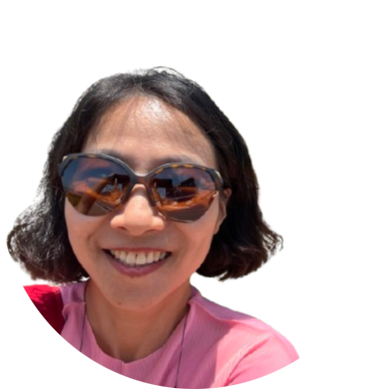
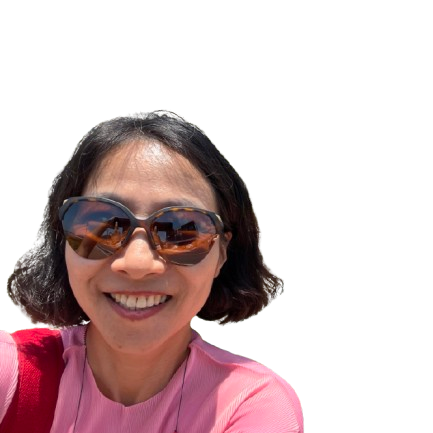
CSS-Home

diff --git a/css/style.css b/css/style.css
@@ -98,3 +98,49 @@ button:focus, button:hover {
     border: 1px solid var(--color-accent);
     border-radius: 4px;
 }
+
+/* Home */
+#home {
+    background-color: var(--color-primary);
+    color: var(--color-text);
+    padding: 5rem 1rem;
+    padding-top: 7rem;
+    text-align: center;
+}
+
+.home__avatar {
+    width: 250px;
+    height: 250px;
+    object-fit: cover;  /* 이미지 비율 고정 */
+    border-radius: 100%;
+    border: 3px solid var(--color-accent);
+}
+
+.home__title {
+    font-size: 3rem;
+    margin-bottom:1rem;
+}
+
+.home__title--strong {
+    color: var(--color-accent);
+}
+
+.home__description {
+    font-size: 1.3rem;
+}
+
+.home__contact {
+    display: inline-block;
+    background-color: var(--color-accent);
+    color: var(--color-black);
+    margin: 2rem;
+    padding: 0.5rem 1rem;
+    font-weight: bold;
+    border-radius: 4px;
+}
+
+.home__contact:hover {
+    background-color: transparent;
+    color: var(--color-accent);
+    outline: 2px solid var(--color-accent);
+}

diff --git a/index.html b/index.html
@@ -47,10 +47,10 @@
     <main>
         <!-- Home -->
         <section id="home">
-            <img src="images/profile.png" alt="Young's propfile" />
-            <h2>Hello I&#39;m Dream Coder, Young</h2>
-            <p>A software engineer currently residing in Cary, NC</p>
-            <a href="#contact">Contact</a>
+            <img class="home__avatar" src="images/profile.png" alt="Young's propfile" />
+            <h2 class="home__title">Hello<br />I&#39;m <strong class="home__title--strong">Dream Coder</strong>, Young</h2>
+            <p class="home__description">A software engineer currently residing in Cary, NC</p>
+            <a class="home__contact" href="#contact">Contact Me</a>
         </section>
         <!-- About -->
         <section id="about">
